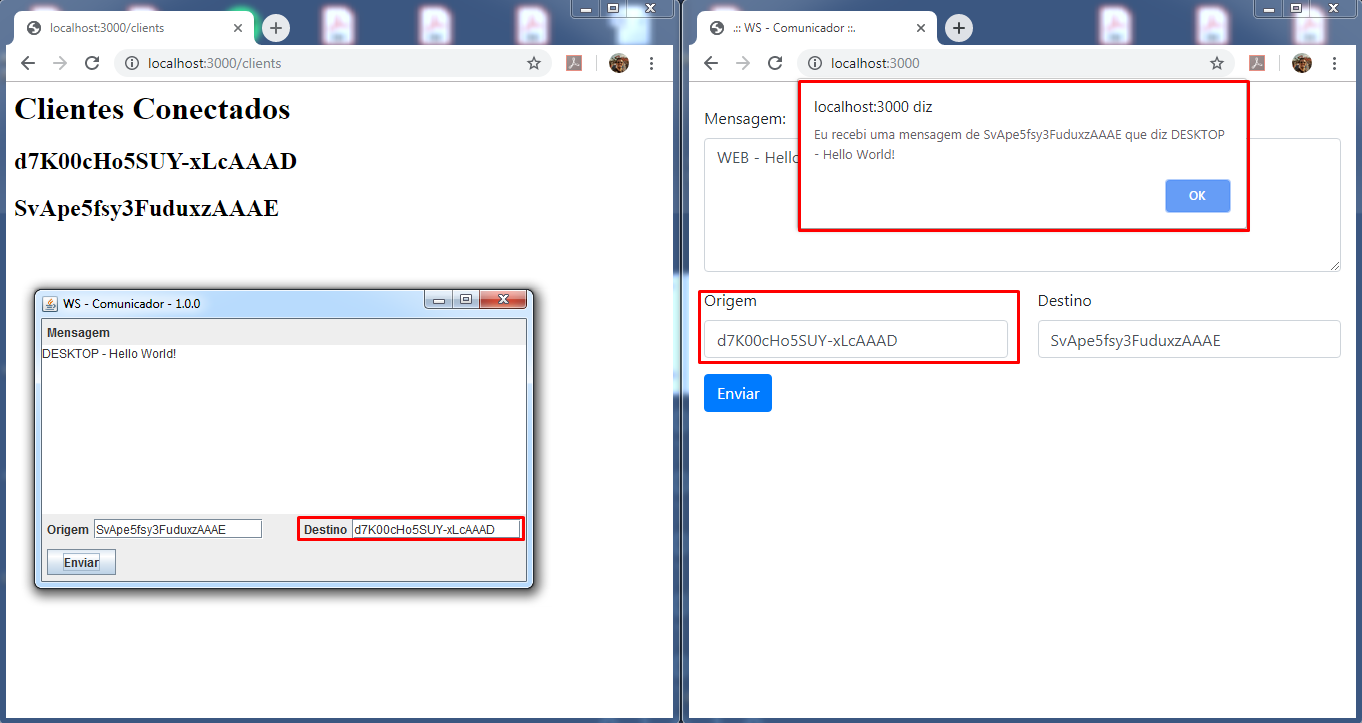
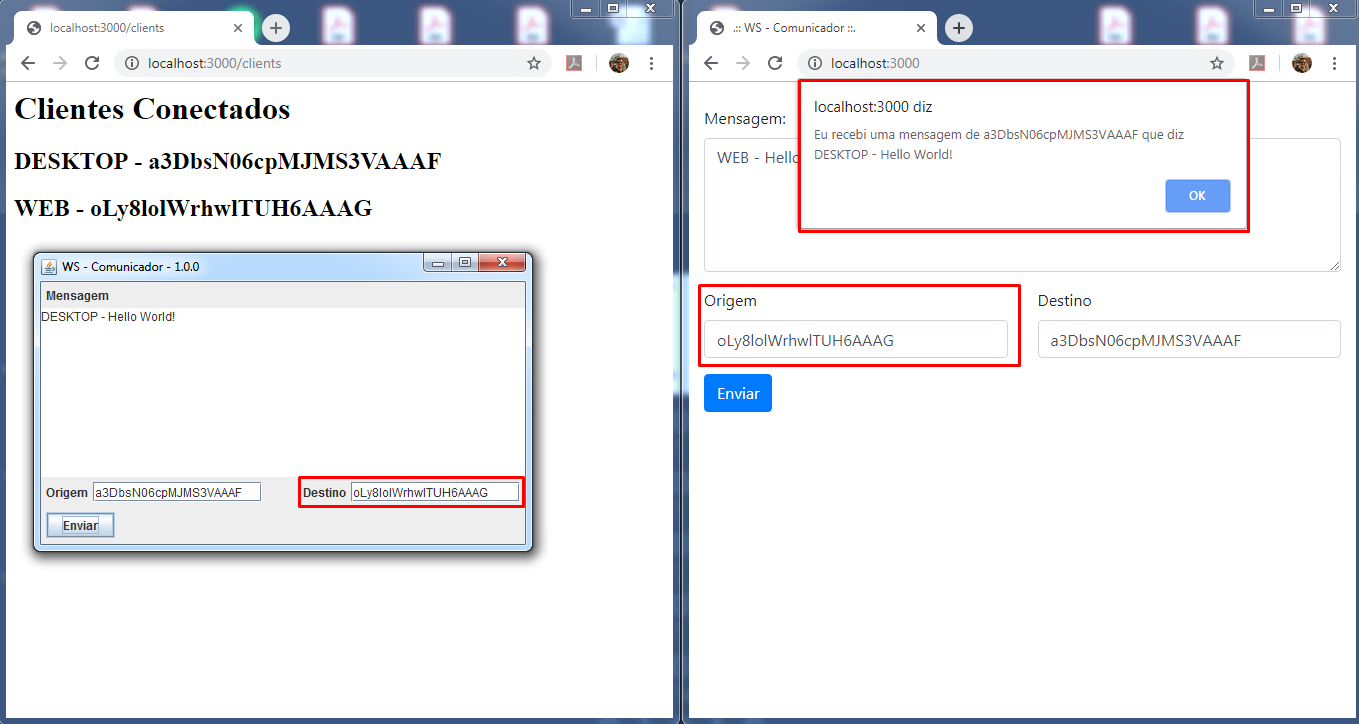
Identificação dos sockets por nome e refactoring do projeto.

diff --git a/web/server.js b/web/server.js
@@ -1,10 +1,7 @@
-var express = require('express');
-var app = express();
+const app = require('./config/express.js');
+
 var http = require('http').Server(app);
 var io = require('socket.io')(http);
-
-app.use('/node_modules', express.static(__dirname + '/node_modules'));
-app.use('/js', express.static(__dirname + '/js'));
 
 http.listen(3000, () => console.log('Server running on port 3000...'));
 
@@ -17,13 +14,15 @@ app.get('/clients', (req, res) => {
     var sockets = io.sockets.sockets;
     for (var socketId in sockets) {
         var socket = sockets[socketId];
-        html += `<h2>${socket.id}</h2>`
+        html += `<h2>${socket.token} - ${socket.id}</h2>`
     }
     res.send(html);
 });
 
 io.on('connection', (client) => {
 
+    client.token = client.handshake.query.token;
+    
     client.on('send', function (obj) {
         var data = JSON.parse(obj);
         io.to(data.destino).emit('message', obj);

diff --git a/web/js/index.js b/web/js/index.js
@@ -2,7 +2,7 @@ $(document).ready(function () {
 
     $('#txaMensagem').val('WEB - Hello World!');
 
-    var socket = io.connect('http://localhost:3000');
+    var socket = io.connect('http://localhost:3000?token=WEB');
     socket.on('connect', () => {
         $('#txtOrigem').val(socket.id);
     });

diff --git a/web/config/express.js b/web/config/express.js
@@ -1,0 +1,7 @@
+const express = require('express');
+const app = express();
+
+app.use('/node_modules', express.static('./node_modules'));
+app.use('/js', express.static('./js'));
+
+module.exports = app;

diff --git a/desktop/client/src/com/client/MainPanel.java b/desktop/client/src/com/client/MainPanel.java
@@ -83,7 +83,7 @@ public class MainPanel extends JPanel {
 
 	private void initialize() throws URISyntaxException {
 
-		socket = IO.socket("http://localhost:3000");
+		socket = IO.socket("http://localhost:3000?token=DESKTOP");
 		socket.on(Socket.EVENT_CONNECT, new Emitter.Listener() {
 
 			@Override
